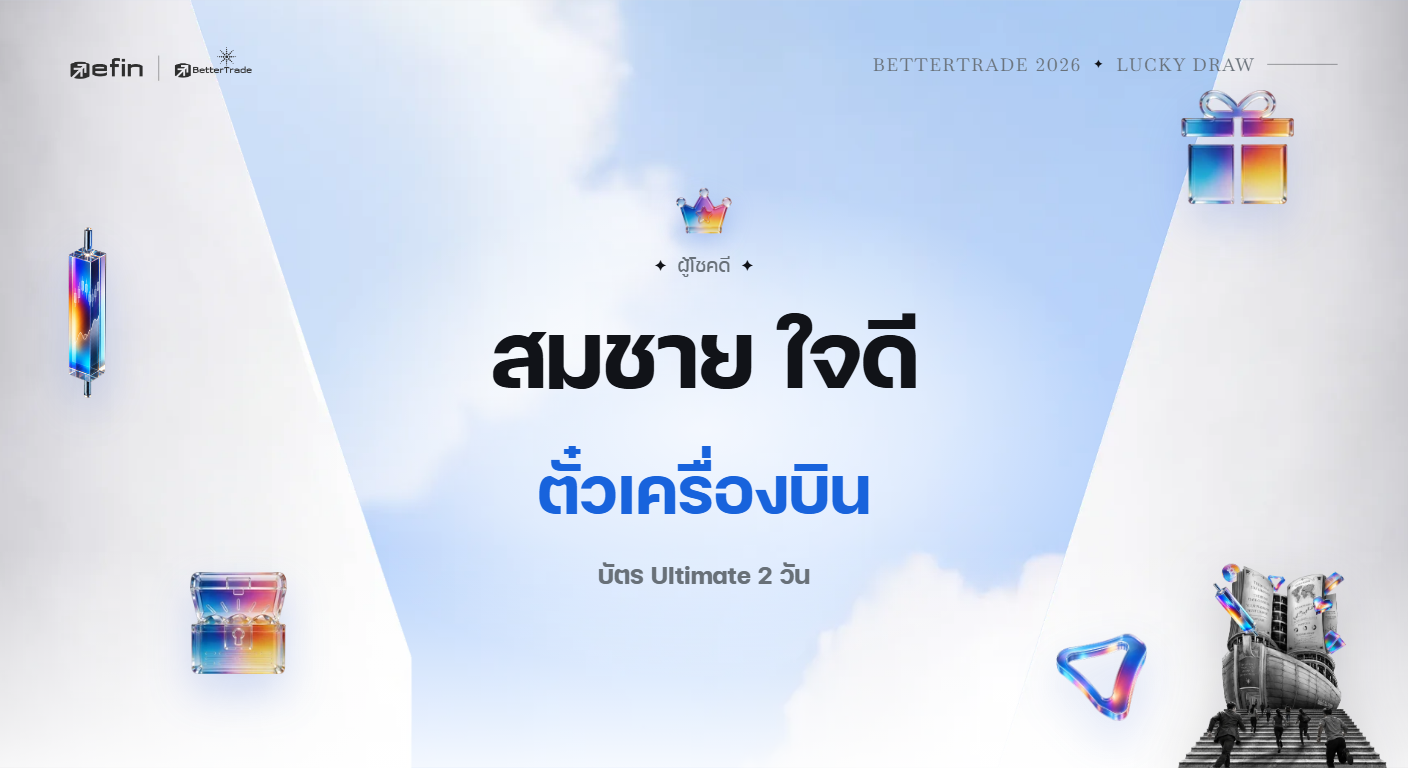
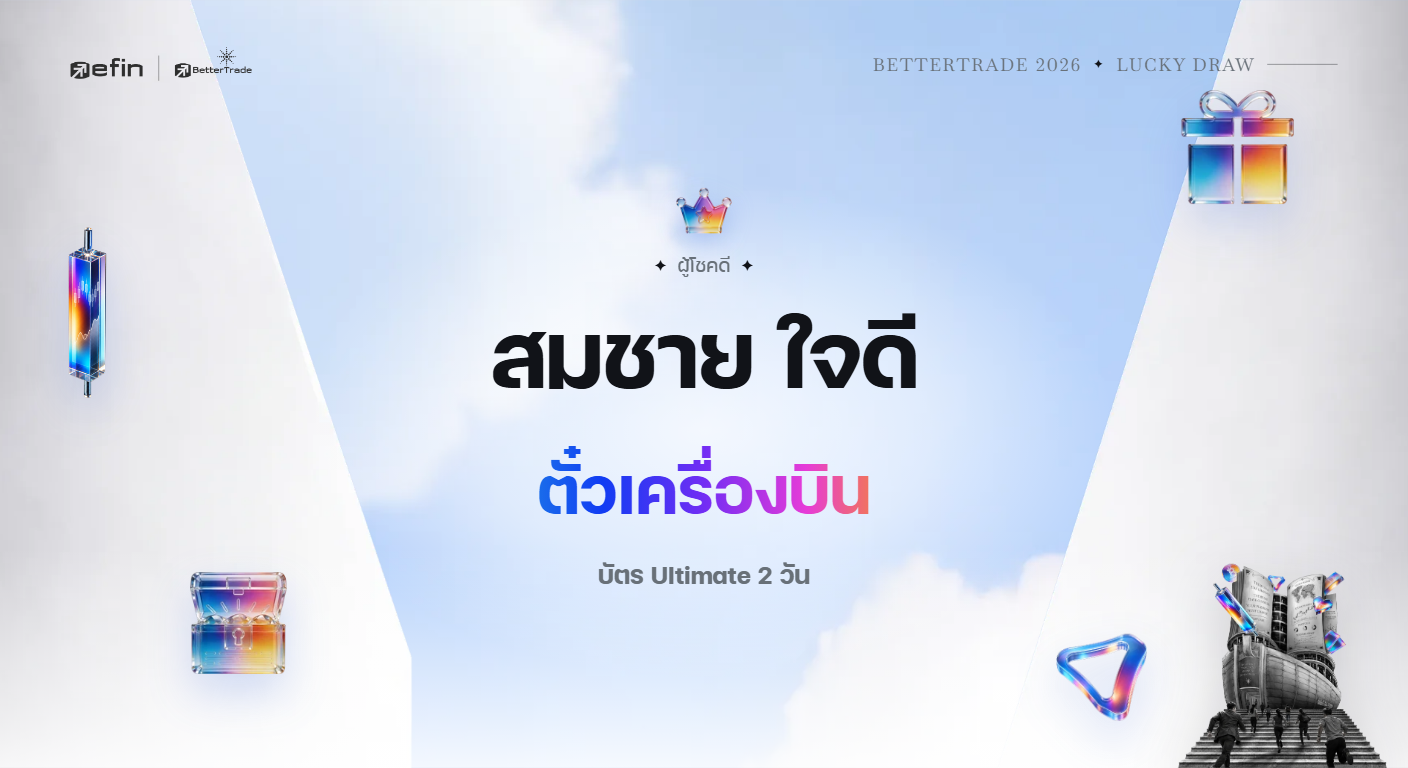
Brand text gradient on prize names, counts and ranks; C ordinals as numbers
- Title-highlight style from the BetterTrade 2026 site (6-colour rim gradient, 200% wide, clipped to text,
  3s flow animation, frozen mid-flow in still previews) on: winners board C prize names, A prize lines,
  B order numbers, prize-count number, reveal prize name, and the prize name in "กำลังสุ่ม …"
- Board C: ordinals are just 1, 2, 3 (no "ที่"), larger (Mini 40px, Main 64px), still solid blue
- Regenerate previews

Changed region(s): [[0.4062, 0.5938, 0.625, 0.6875]]

diff --git a/show-screen.html b/show-screen.html
@@ -192,6 +192,20 @@
   .group{flex:1 1 0;min-width:0;max-width:none;text-align:left;background:rgba(255,255,255,.82);border:1px solid var(--line);backdrop-filter:blur(6px)}
   .group header{padding:14px 20px 12px;border-bottom:1px solid var(--line)}
   .group header b{display:block;font-size:40px;font-weight:700;line-height:1.2;color:var(--blue-ink);white-space:nowrap;overflow:hidden;text-overflow:ellipsis}
+  /* prize name: the BetterTrade 2026 title highlight (.bt-title-highlight): rim-palette gradient clipped to the text,
+     200% wide and drifting back and forth every 3s */
+  .group header b,.grid:not(.ranked) .tile small,.tile .rank,.prize .qty b,.who .pline,.drawing .sub .hl{color:transparent;-webkit-text-fill-color:transparent;
+    background:linear-gradient(90deg,#00D4FE 0%,#1F87E6 20%,#113CF3 35%,#722DF4 50%,#E63BD8 65%,#F79319 80%) 0% 50%/200% 100%;
+    -webkit-background-clip:text;background-clip:text;animation:spectrum-flow 3s ease-in-out infinite alternate}
+  /* the gradient spans the text itself, not the whole card width */
+  .group header b,.grid:not(.ranked) .tile small{display:inline-block;max-width:100%;vertical-align:top;padding-right:4px}
+  .group header b{font-weight:600}
+  .grid:not(.ranked) .tile small{font-weight:600}
+  /* title highlight also on: prize count (prize scene), prize name (reveal), prize name in "กำลังสุ่ม …" (drawing) */
+  .prize .qty b,.who .pline,.drawing .sub .hl{padding:0 4px}
+  @keyframes spectrum-flow{from{background-position:0% 50%}to{background-position:100% 100%}}
+  /* the gradient spans the text itself (inline-block); still frames show it mid-flow: blue, violet, pink */
+  body.still :is(.group header b,.grid:not(.ranked) .tile small,.tile .rank,.prize .qty b,.who .pline,.drawing .sub .hl){background-position:50% 50%}
   .group header small{display:block;margin-top:2px;font-size:28px;font-weight:700;color:var(--ink-2)}
   .group header small em{font-style:normal;font-size:36px;color:var(--ink);margin:0 4px}
   .group ol{list-style:none;padding:8px 20px 14px}
@@ -199,7 +213,7 @@
   /* a prize with many winners: wider, names in two columns */
   .group.many{flex-grow:2;max-width:1080px}
   .group.many ol{columns:2;column-gap:28px}
-  .group li i{flex:none;width:58px;font-style:normal;font-size:24px;font-weight:500;color:var(--blue-ink)}
+  .group li i{flex:none;width:52px;font-style:normal;font-size:40px;font-weight:700;line-height:1;color:var(--blue-ink);font-variant-numeric:lining-nums}
   .group li b{min-width:0;flex:1;font-size:36px;font-weight:600;line-height:1.25;white-space:nowrap;overflow:hidden;text-overflow:ellipsis}
 
   #confetti{position:absolute;inset:0;z-index:3;pointer-events:none}
@@ -234,7 +248,7 @@
   body.screen-main .k{font-size:38px;gap:24px}
   body.screen-main .k::before,body.screen-main .k::after{width:100px}
   body.screen-main .lucky i{font-size:30px}
-  body.screen-main .group li i{font-size:38px;width:84px;font-weight:600}
+  body.screen-main .group li i{font-size:64px;width:84px;font-weight:700}
   /* level 3, labels and data */
   body.screen-main .lucky{font-size:52px}
   body.screen-main .rule small{font-size:44px;font-weight:600}
@@ -511,7 +525,7 @@ function showPrize(st){
 // countdown while the deck shuffles; no other names are shown on screen
 function showDrawing(st, done){
   go("drawing");
-  $("#dSub").textContent = `กำลังสุ่ม ${st.prize.name}`;
+  $("#dSub").innerHTML = `กำลังสุ่ม <span class="hl">${esc(st.prize.name)}</span>`;
   const secs = Math.max(1, st.countdown || 5), els = document.querySelectorAll(".count");
   if(drawStyle === "B") startReel(st, secs * 1000);
   if(STILL){ els.forEach(el => el.textContent = Math.min(3, secs)); return; }
@@ -581,7 +595,7 @@ function showBoard(st){
       const many = g.people.length > (screen === "main" ? 3 : 5);
       const shown = screen === "main" ? g.people.slice(many ? -6 : -3) : g.people;
       return `<section class="group${many ? " many" : ""}"><header><b>${esc(g.prize)}</b><small>ผู้โชคดี<em>${g.people.length}</em>${qty ? `จาก ${qty} ` : ""}รางวัล</small></header>
-        <ol>${shown.map(w => `<li><i>ที่ ${w.no}</i><b>${esc(nm(w.n))}</b></li>`).join("")}</ol></section>`;
+        <ol>${shown.map(w => `<li><i>${w.no}</i><b>${esc(nm(w.n))}</b></li>`).join("")}</ol></section>`;
     }).join("");
   } else {
     grid.className = boardStyle === "B" ? "grid ranked" : "grid";
